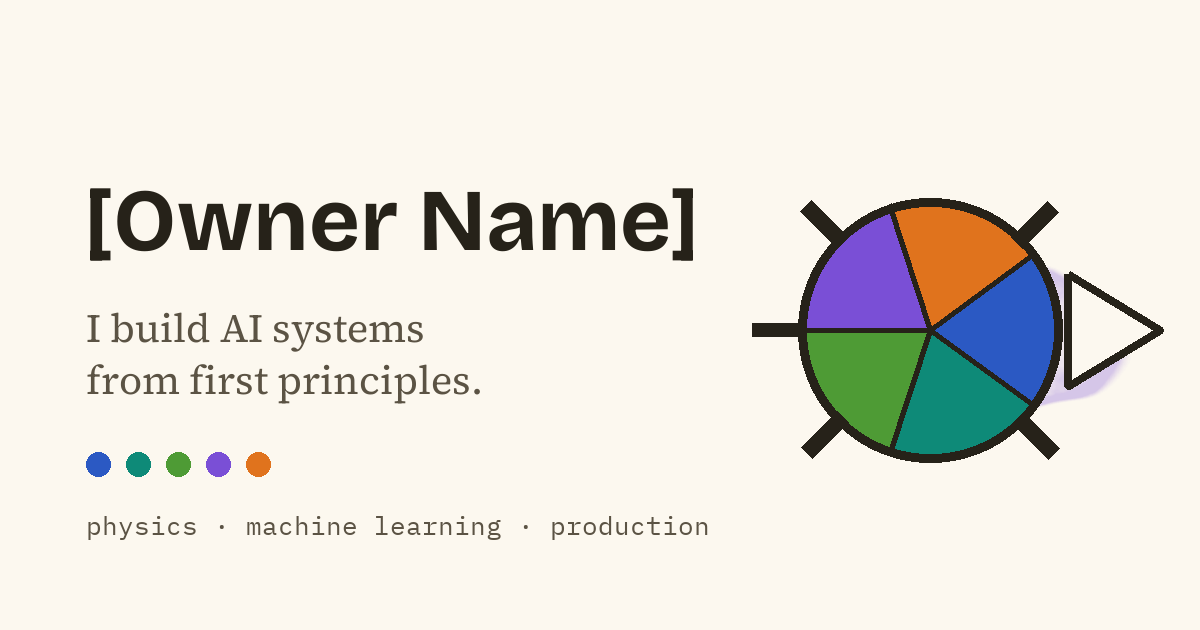
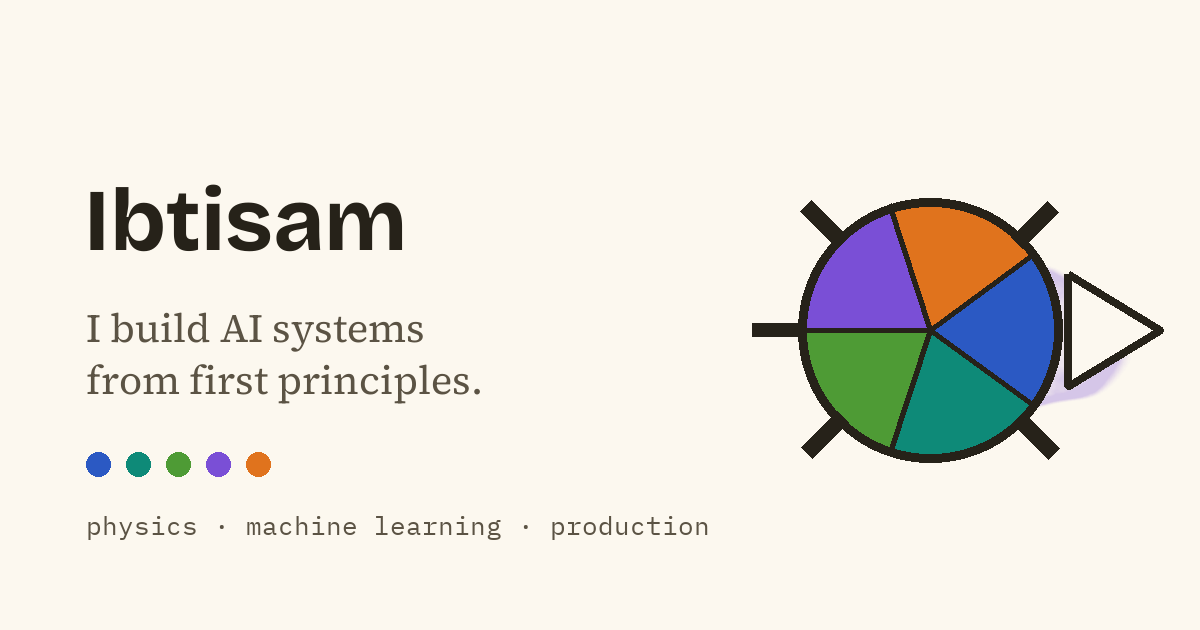
content: fill the site with Ibtisam's real story
Name across brand/hero/footer/meta/OG. Physics narrative grounded in theoretical nuclear physics (MSc, Central University of Kashmir). Real stacks: PyTorch/TensorFlow/HF, LangGraph/Langfuse/Deepeval, FastAPI/Docker. Vision and generative cards from resume-level work (CCTV multi-stream service, RTMPose from partial bodies, vehicle wait-time detection with a public repo link, outfit visualization, ~1s face swap, campaign agent) - client names withheld pending owner-supplied case data. MLOps stats are real: ~25s to <1s latency, -95% errors. Notes garden seeded from the Small Diary (two live links) plus unpublished write-ups of shipped work with year-only dates; topic graph relabeled to match. Contact links live (email, GitHub, diary); LinkedIn URL still pending. Imagery captions relabeled as stylized recreations.

Changed region(s): [[0.0617, 0.2714, 0.5858, 0.4222], [0.0617, 0.3921, 0.0925, 0.4222]]

diff --git a/scripts/make-og.py b/scripts/make-og.py
@@ -70,8 +70,7 @@ display = ImageFont.truetype(str(CACHE / f"{FACES['display']}.ttf"), 88)
 serif = ImageFont.truetype(str(CACHE / f"{FACES['serif']}.ttf"), 40)
 mono = ImageFont.truetype(str(CACHE / f"{FACES['mono']}.ttf"), 26)
 
-# PLACEHOLDER: [OWNER_NAME]
-d.text((84, 168), "[Owner Name]", font=display, fill=INK)
+d.text((84, 168), "Ibtisam", font=display, fill=INK)
 d.text((86, 300), "I build AI systems", font=serif, fill=SOFT)
 d.text((86, 352), "from first principles.", font=serif, fill=SOFT)
 for i, c in enumerate(ACCENTS):

diff --git a/README.md b/README.md
@@ -69,24 +69,17 @@ public/resume.pdf           PLACEHOLDER — replace with the real résumé
 
 ## Placeholders — replace before launch (plan.md §11)
 
-Everything below is deliberately fake or bracketed. Nothing here should survive to production.
+Most owner content is now real (branch `content/ibtisam`): name, physics narrative, ML stack,
+vision/generative project cards (résumé-level, no client names), MLOps stats, seven notes
+(three linking to the live Small Diary), and contact links. Still pending:
 
 | Item | Where | Replace with |
 |---|---|---|
-| `[Owner Name]` | `src/components/TopBar.astro`, `src/components/SiteFooter.astro`, `src/layouts/Base.astro` (title + description), `src/sections/Hero.astro` | The owner's name |
-| `[SITE_URL]` (`https://example.com`) | `astro.config.mjs` | Production URL |
-| Thesis + roles line | `src/sections/Hero.astro` | Owner's tagline and role line (brief default provided) |
-| Physics/math narrative | `src/sections/Foundations.astro` | Personalized essay paragraphs |
-| Skill chip groups | `src/sections/MlCore.astro` | Owner's real toolkit |
-| 3 vision projects | `src/sections/Vision.astro` | Real projects |
-| 3 generative-AI projects | `src/sections/GenerativeAi.astro` | Real projects |
-| Stat chips (38 ms / 99.95% / 14) | `src/sections/Mlops.astro` | Real production metrics (visibly tagged `placeholder metrics` until then) |
-| 3 case studies + `[CASE_STUDY_URL]` | `src/sections/CaseStudies.astro` | Real case studies on the same Problem → Approach → Result template |
-| 6 note titles | `src/sections/NotesGarden.astro` | Real notes (dates/tags included) |
-| `[EMAIL]`, `[GITHUB_URL]`, `[LINKEDIN_URL]`, `[SCHOLAR_URL]`, `[City] · [Timezone]` | `src/sections/Contact.astro` | Real contact links (become live buttons when supplied) |
-| `public/resume.pdf` | one-page stub PDF | The real résumé PDF |
+| `[LINKEDIN_URL]` | `src/sections/Contact.astro` | Real LinkedIn profile URL |
+| `public/resume.pdf` | stub PDF | The real résumé PDF (also update the "PDF · one page" caption if two pages) |
+| 3 case studies + `[CASE_STUDY_URL]` | `src/sections/CaseStudies.astro` | Real CCTV/PPE/BookMyShow write-ups on the Problem → Approach → Result template, when the owner supplies the data |
+| `[SITE_URL]` (`https://example.com`) | `astro.config.mjs`, `public/robots.txt` | Production URL (then rebuild for sitemap/canonical/OG URLs) |
 | Headshot | not yet placed | Optional — receives the contour-first reveal (§8) if supplied |
-| Signature | `src/sections/Contact.astro` (generated single-stroke placeholder) | Optional `SIGNATURE_SVG` — swap the two paths + dot inside `.signature` |
-| CV + case-study imagery | `public/img/cv-*.webp`, `shot-*.webp` (stylized fakes from `scripts/`) | Real project frames/screenshots (keep the dimensions; update box coords in `Vision.astro`) |
-| `[SITE_URL]` | `astro.config.mjs`, `public/robots.txt` | Production URL (then rebuild for sitemap/canonical/OG URLs) |
-| OG image | `public/og.png` (carries `[Owner Name]`) | Rerun `python scripts/make-og.py` after renaming |
+| Signature | `src/sections/Contact.astro` (generated single-stroke) | Optional `SIGNATURE_SVG` — swap the two paths + dot inside `.signature` |
+| Project imagery | `public/img/cv-*.webp`, `shot-*.webp` | Stylized recreations by design (client work is private); swap only if shareable assets appear |
+| Unpublished notes (year-only dates) | `src/sections/NotesGarden.astro` | Publish to the Small Diary and add `href`s |
